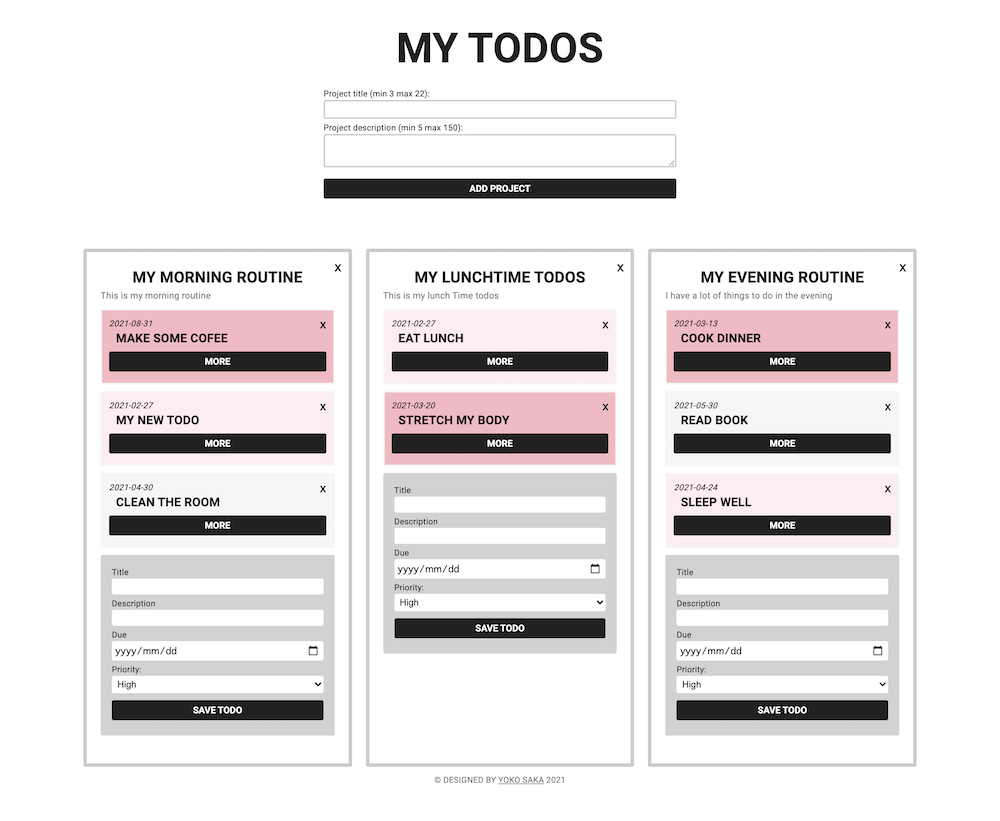
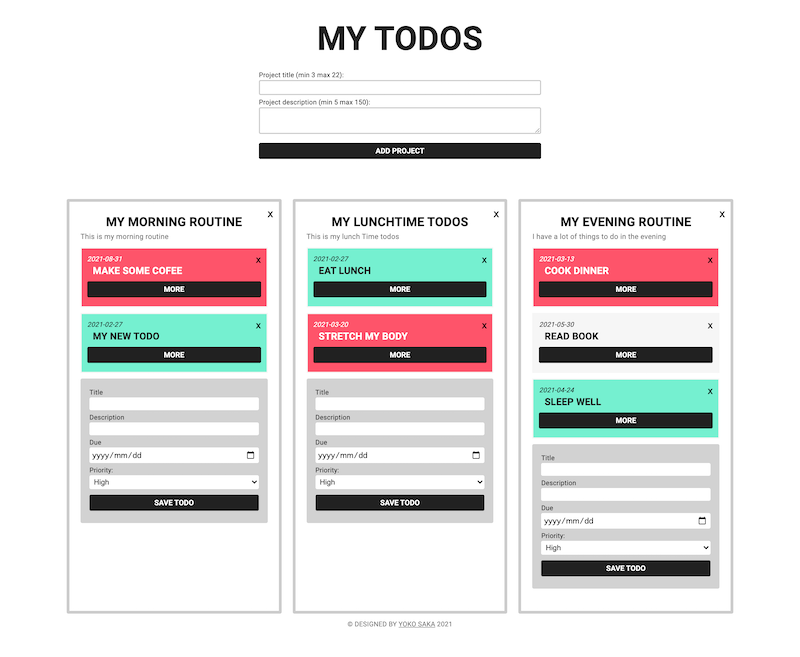
Change the color of todos

diff --git a/dist/index.bundle.js b/dist/index.bundle.js
@@ -126,7 +126,7 @@ eval("__webpack_require__.r(__webpack_exports__);\n/* harmony import */ var uuid
 /***/ (function(module, __webpack_exports__, __webpack_require__) {
 
 "use strict";
-eval("__webpack_require__.r(__webpack_exports__);\n/* harmony import */ var _node_modules_css_loader_dist_runtime_api_js__WEBPACK_IMPORTED_MODULE_0__ = __webpack_require__(/*! ../../node_modules/css-loader/dist/runtime/api.js */ \"./node_modules/css-loader/dist/runtime/api.js\");\n/* harmony import */ var _node_modules_css_loader_dist_runtime_api_js__WEBPACK_IMPORTED_MODULE_0___default = /*#__PURE__*/__webpack_require__.n(_node_modules_css_loader_dist_runtime_api_js__WEBPACK_IMPORTED_MODULE_0__);\n// Imports\n\nvar ___CSS_LOADER_EXPORT___ = _node_modules_css_loader_dist_runtime_api_js__WEBPACK_IMPORTED_MODULE_0___default()(function(i){return i[1]});\n___CSS_LOADER_EXPORT___.push([module.id, \"@import url(https://fonts.googleapis.com/css2?family=Roboto:wght@400;700&display=swap);\"]);\n// Module\n___CSS_LOADER_EXPORT___.push([module.id, \"*,\\n*::after,\\n*::before {\\n  margin: 0;\\n  padding: 0;\\n  box-sizing: inherit;\\n}\\n\\nhtml {\\n  scroll-behavior: smooth;\\n}\\n\\nbody {\\n  box-sizing: border-box;\\n}\\n\\nul {\\n  list-style-type: none;\\n  padding: 0;\\n  margin: 0;\\n}\\n\\na {\\n  text-decoration: none;\\n  color: #202020;\\n  transition: all 0.4s;\\n}\\na:hover {\\n  opacity: 0.8;\\n}\\n\\nimg {\\n  max-width: 100%;\\n}\\n\\ninput,\\nbutton,\\ntextarea {\\n  margin: 0;\\n  padding: 0;\\n  background: none;\\n  border: none;\\n  border-radius: 0;\\n  outline: none;\\n  appearance: none;\\n  cursor: pointer;\\n}\\n\\nselect {\\n  margin: 0;\\n  padding: 0;\\n  background: none;\\n  border: none;\\n  border-radius: 0;\\n  outline: none;\\n  cursor: pointer;\\n}\\n\\ntable {\\n  border-collapse: collapse;\\n  border-spacing: 0;\\n}\\n\\nhtml {\\n  font-size: 50%;\\n}\\n@media only screen and (min-width: 768px) {\\n  html {\\n    font-size: 62.5%;\\n  }\\n}\\n\\nbody {\\n  font-family: \\\"Roboto\\\", sans-serif;\\n  line-height: 1.5;\\n  font-size: 1.5rem;\\n  letter-spacing: 0.2px;\\n  color: #202020;\\n}\\n\\np {\\n  font-size: 1.5rem;\\n}\\n\\n.btn {\\n  display: inline-block;\\n  background: #202020;\\n  padding: 0.6rem;\\n  color: #fff;\\n  width: 100%;\\n  margin: 0.6rem auto;\\n  font-family: inherit;\\n  text-transform: uppercase;\\n  font-weight: bold;\\n  cursor: pointer;\\n  border: 1px solid black;\\n  border-radius: 3px;\\n  transition: all 0.4s;\\n}\\n.btn:hover {\\n  background: #fff;\\n  color: #202020;\\n}\\n\\n.container {\\n  width: 94%;\\n  max-width: 120rem;\\n  margin: 4rem auto;\\n}\\n\\n.header {\\n  width: 100%;\\n  margin: 0 auto;\\n}\\n\\n.main-heading {\\n  font-size: 6rem;\\n  text-align: center;\\n  margin: 0 auto 1rem;\\n  line-height: 1;\\n  text-transform: uppercase;\\n}\\n\\n.footer {\\n  text-align: center;\\n  padding: 1rem 0;\\n  width: 100%;\\n  margin: 0 auto;\\n  font-size: 1.2rem;\\n  color: #777;\\n  text-transform: uppercase;\\n}\\n.footer a {\\n  color: #777;\\n  text-decoration: underline;\\n}\\n\\n.projects {\\n  display: grid;\\n  grid-gap: 2rem;\\n}\\n@media only screen and (min-width: 768px) {\\n  .projects {\\n    grid-template-columns: repeat(2, 1fr);\\n  }\\n}\\n@media only screen and (min-width: 960px) {\\n  .projects {\\n    grid-template-columns: repeat(3, 1fr);\\n  }\\n}\\n\\n.project {\\n  border: 5px solid #ccc;\\n  border-radius: 3px;\\n  text-align: center;\\n  padding: 2rem;\\n  position: relative;\\n}\\n.project__rmbtn {\\n  position: absolute;\\n  top: 1rem;\\n  right: 1rem;\\n  font-size: 2rem;\\n}\\n.project__title {\\n  text-transform: uppercase;\\n}\\n.project__desc {\\n  color: #777;\\n  font-size: 1.3rem;\\n  text-align: left;\\n}\\n.project__field {\\n  width: 100%;\\n  margin: 0 auto 0.4rem;\\n}\\n.project__field span {\\n  display: block;\\n  margin-right: 0.4rem;\\n  font-size: 1.2rem;\\n}\\n.project__field input,\\n.project__field select,\\n.project__field textarea {\\n  width: 100%;\\n  padding: 0.4rem;\\n  background: #fff;\\n  border-radius: 3px;\\n}\\n.project__form {\\n  display: block;\\n  width: 100%;\\n  text-align: left;\\n  border-radius: 3px;\\n  padding: 1.6rem;\\n}\\n.project__form.add-todo-form {\\n  background: rgba(32, 32, 32, 0.2);\\n  margin: 1rem auto 2rem;\\n}\\n.project__form.edit-todo-form {\\n  background: #fff;\\n  margin: 1rem auto 0;\\n}\\n.project__form.edit-todo-form input,\\n.project__form.edit-todo-form select,\\n.project__form.edit-todo-form textarea {\\n  border: 2px solid #ccc;\\n}\\n.project__form.add-project-form {\\n  width: 94%;\\n  max-width: 54rem;\\n  margin: 0 auto 5rem;\\n}\\n.project__form.add-project-form input,\\n.project__form.add-project-form select,\\n.project__form.add-project-form textarea {\\n  border: 2px solid #ccc;\\n}\\n.project__todos {\\n  margin: 1rem auto 0;\\n}\\n\\n.todo {\\n  position: relative;\\n  text-align: left;\\n  padding: 1rem;\\n  background: #f6f6f6;\\n  margin: 0 auto 1rem;\\n  border: 2px solid #f6f6f6;\\n}\\n.todo.high {\\n  background: rgba(211, 82, 102, 0.4);\\n}\\n.todo.middle {\\n  background: rgba(211, 82, 102, 0.1);\\n}\\n.todo__rmbtn {\\n  position: absolute;\\n  top: 1rem;\\n  right: 1rem;\\n  font-size: 1.8rem;\\n}\\n.todo__due {\\n  font-size: 1.2rem;\\n  font-style: italic;\\n  margin: 0 auto 0.4rem;\\n}\\n.todo__title-cover {\\n  display: flex;\\n  align-items: center;\\n  justify-content: flex-start;\\n}\\n.todo__comp-checkbox {\\n  margin-right: 1rem;\\n}\\n.todo__title {\\n  text-transform: uppercase;\\n  margin: 0 0 0.4rem;\\n  line-height: 1;\\n}\\n.todo__more {\\n  display: none;\\n  margin-top: 1rem;\\n}\\n.todo__more.active {\\n  display: block;\\n}\\n.todo__desc {\\n  font-size: 1.3rem;\\n  line-height: 1.4;\\n  text-align: left;\\n  margin: 0 auto 0.6rem;\\n}\", \"\"]);\n// Exports\n/* harmony default export */ __webpack_exports__[\"default\"] = (___CSS_LOADER_EXPORT___);\n\n\n//# sourceURL=webpack://my-todo-list/./src/scss/main.scss?./node_modules/css-loader/dist/cjs.js!./node_modules/sass-loader/dist/cjs.js");
+eval("__webpack_require__.r(__webpack_exports__);\n/* harmony import */ var _node_modules_css_loader_dist_runtime_api_js__WEBPACK_IMPORTED_MODULE_0__ = __webpack_require__(/*! ../../node_modules/css-loader/dist/runtime/api.js */ \"./node_modules/css-loader/dist/runtime/api.js\");\n/* harmony import */ var _node_modules_css_loader_dist_runtime_api_js__WEBPACK_IMPORTED_MODULE_0___default = /*#__PURE__*/__webpack_require__.n(_node_modules_css_loader_dist_runtime_api_js__WEBPACK_IMPORTED_MODULE_0__);\n// Imports\n\nvar ___CSS_LOADER_EXPORT___ = _node_modules_css_loader_dist_runtime_api_js__WEBPACK_IMPORTED_MODULE_0___default()(function(i){return i[1]});\n___CSS_LOADER_EXPORT___.push([module.id, \"@import url(https://fonts.googleapis.com/css2?family=Roboto:wght@400;700&display=swap);\"]);\n// Module\n___CSS_LOADER_EXPORT___.push([module.id, \"*,\\n*::after,\\n*::before {\\n  margin: 0;\\n  padding: 0;\\n  box-sizing: inherit;\\n}\\n\\nhtml {\\n  scroll-behavior: smooth;\\n}\\n\\nbody {\\n  box-sizing: border-box;\\n}\\n\\nul {\\n  list-style-type: none;\\n  padding: 0;\\n  margin: 0;\\n}\\n\\na {\\n  text-decoration: none;\\n  color: #202020;\\n  transition: all 0.4s;\\n}\\na:hover {\\n  opacity: 0.8;\\n}\\n\\nimg {\\n  max-width: 100%;\\n}\\n\\ninput,\\nbutton,\\ntextarea {\\n  margin: 0;\\n  padding: 0;\\n  background: none;\\n  border: none;\\n  border-radius: 0;\\n  outline: none;\\n  appearance: none;\\n  cursor: pointer;\\n}\\n\\nselect {\\n  margin: 0;\\n  padding: 0;\\n  background: none;\\n  border: none;\\n  border-radius: 0;\\n  outline: none;\\n  cursor: pointer;\\n}\\n\\ntable {\\n  border-collapse: collapse;\\n  border-spacing: 0;\\n}\\n\\nhtml {\\n  font-size: 50%;\\n}\\n@media only screen and (min-width: 768px) {\\n  html {\\n    font-size: 62.5%;\\n  }\\n}\\n\\nbody {\\n  font-family: \\\"Roboto\\\", sans-serif;\\n  line-height: 1.5;\\n  font-size: 1.5rem;\\n  letter-spacing: 0.2px;\\n  color: #202020;\\n}\\n\\np {\\n  font-size: 1.5rem;\\n}\\n\\n.btn {\\n  display: inline-block;\\n  background: #202020;\\n  padding: 0.6rem;\\n  color: #fff;\\n  width: 100%;\\n  margin: 0.6rem auto;\\n  font-family: inherit;\\n  text-transform: uppercase;\\n  font-weight: bold;\\n  cursor: pointer;\\n  border: 1px solid black;\\n  border-radius: 3px;\\n  transition: all 0.4s;\\n}\\n.btn:hover {\\n  background: #fff;\\n  color: #202020;\\n}\\n\\n.container {\\n  width: 94%;\\n  max-width: 120rem;\\n  margin: 4rem auto;\\n}\\n\\n.header {\\n  width: 100%;\\n  margin: 0 auto;\\n}\\n\\n.main-heading {\\n  font-size: 6rem;\\n  text-align: center;\\n  margin: 0 auto 1rem;\\n  line-height: 1;\\n  text-transform: uppercase;\\n}\\n\\n.footer {\\n  text-align: center;\\n  padding: 1rem 0;\\n  width: 100%;\\n  margin: 0 auto;\\n  font-size: 1.2rem;\\n  color: #777;\\n  text-transform: uppercase;\\n}\\n.footer a {\\n  color: #777;\\n  text-decoration: underline;\\n}\\n\\n.projects {\\n  display: grid;\\n  grid-gap: 2rem;\\n}\\n@media only screen and (min-width: 768px) {\\n  .projects {\\n    grid-template-columns: repeat(2, 1fr);\\n  }\\n}\\n@media only screen and (min-width: 960px) {\\n  .projects {\\n    grid-template-columns: repeat(3, 1fr);\\n  }\\n}\\n\\n.project {\\n  border: 5px solid #ccc;\\n  border-radius: 3px;\\n  text-align: center;\\n  padding: 2rem;\\n  position: relative;\\n}\\n.project__rmbtn {\\n  position: absolute;\\n  top: 1rem;\\n  right: 1rem;\\n  font-size: 2rem;\\n}\\n.project__title {\\n  text-transform: uppercase;\\n}\\n.project__desc {\\n  color: #777;\\n  font-size: 1.3rem;\\n  text-align: left;\\n}\\n.project__field {\\n  width: 100%;\\n  margin: 0 auto 0.4rem;\\n  color: #202020;\\n}\\n.project__field span {\\n  display: block;\\n  margin-right: 0.4rem;\\n  font-size: 1.2rem;\\n}\\n.project__field input,\\n.project__field select,\\n.project__field textarea {\\n  width: 100%;\\n  padding: 0.4rem;\\n  background: #fff;\\n  border-radius: 3px;\\n}\\n.project__form {\\n  display: block;\\n  width: 100%;\\n  text-align: left;\\n  border-radius: 3px;\\n  padding: 1.6rem;\\n}\\n.project__form.add-todo-form {\\n  background: rgba(32, 32, 32, 0.2);\\n  margin: 1rem auto 2rem;\\n}\\n.project__form.edit-todo-form {\\n  background: #fff;\\n  margin: 1rem auto 0;\\n}\\n.project__form.edit-todo-form input,\\n.project__form.edit-todo-form select,\\n.project__form.edit-todo-form textarea {\\n  border: 2px solid #ccc;\\n}\\n.project__form.add-project-form {\\n  width: 94%;\\n  max-width: 54rem;\\n  margin: 0 auto 5rem;\\n}\\n.project__form.add-project-form input,\\n.project__form.add-project-form select,\\n.project__form.add-project-form textarea {\\n  border: 2px solid #ccc;\\n}\\n.project__todos {\\n  margin: 1rem auto 0;\\n}\\n\\n.todo {\\n  position: relative;\\n  text-align: left;\\n  padding: 1rem;\\n  background: #f6f6f6;\\n  margin: 0 auto 1rem;\\n  border: 2px solid #f6f6f6;\\n}\\n.todo.high {\\n  background: #fe546a;\\n  color: #fff;\\n}\\n.todo.middle {\\n  background: #74f0d1;\\n}\\n.todo__rmbtn {\\n  position: absolute;\\n  top: 1rem;\\n  right: 1rem;\\n  font-size: 1.8rem;\\n}\\n.todo__due {\\n  font-size: 1.2rem;\\n  font-style: italic;\\n  margin: 0 auto 0.4rem;\\n}\\n.todo__title-cover {\\n  display: flex;\\n  align-items: center;\\n  justify-content: flex-start;\\n}\\n.todo__comp-checkbox {\\n  margin-right: 1rem;\\n}\\n.todo__title {\\n  text-transform: uppercase;\\n  margin: 0 0 0.4rem;\\n  line-height: 1;\\n}\\n.todo__more {\\n  display: none;\\n  margin-top: 1rem;\\n}\\n.todo__more.active {\\n  display: block;\\n}\\n.todo__desc {\\n  font-size: 1.3rem;\\n  line-height: 1.4;\\n  text-align: left;\\n  margin: 0 auto 0.6rem;\\n}\", \"\"]);\n// Exports\n/* harmony default export */ __webpack_exports__[\"default\"] = (___CSS_LOADER_EXPORT___);\n\n\n//# sourceURL=webpack://my-todo-list/./src/scss/main.scss?./node_modules/css-loader/dist/cjs.js!./node_modules/sass-loader/dist/cjs.js");
 
 /***/ }),
 

diff --git a/src/scss/components/_todo.scss b/src/scss/components/_todo.scss
@@ -7,17 +7,13 @@
   border: 2px solid $light-grey-2;
 
   &.high {
-    background: rgba($color-primary, 0.4);
+    background: $color-primary;
+    color: $white;
   }
 
   &.middle {
-    background: rgba($color-primary, 0.1);
+    background: $color-tertiary;
   }
-
-  // &.low {
-  //   background: $white;
-  //   color: $grey;
-  // }
 
   &__rmbtn {
     position: absolute;

diff --git a/src/scss/abstracts/_variables.scss b/src/scss/abstracts/_variables.scss
@@ -1,7 +1,9 @@
 @import url('https://fonts.googleapis.com/css2?family=Roboto:wght@400;700&display=swap');
 
 // COLORS
-$color-primary: #d35266;
+$color-primary: #fe546a;
+$color-secondary: #09a6f3;
+$color-tertiary:#74f0d1;
 $grey: #777;
 $light-grey-1: #ccc;
 $light-grey-2: #f6f6f6;

diff --git a/src/scss/components/_project.scss b/src/scss/components/_project.scss
@@ -25,6 +25,7 @@
   &__field {
     width: 100%;
     margin: 0 auto 0.4rem;
+    color: $black;
 
     span {
       display: block;
